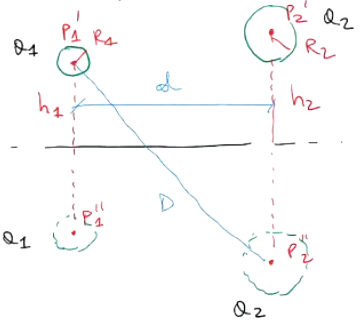
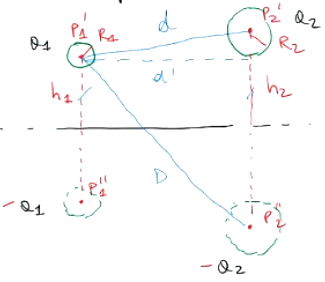
corretta lezione 15 e terminata definitivamente 16

diff --git a/15_capacità_cavi_giratore_dielettrici_dipoli.tex b/15_capacità_cavi_giratore_dielettrici_dipoli.tex
@@ -121,32 +121,59 @@ bifilare in prossimità del suolo.
 Applicando il PSE
 \begin{align*}
 V_1 &= -\frac{\sigma_1 R_1 2\pi}{2\pi\varepsilon_0}\ln R_1 -
-\frac{\sigma_2 R_2 2 \pi}{2 \pi \varepsilon_0}\ln d - 
-\frac{\sigma_1 R_1 2 \pi}{2\pi \varepsilon_0} \ln(2 h_1) -
+\frac{\sigma_2 R_2 2 \pi}{2 \pi \varepsilon_0}\ln d + 
+\frac{\sigma_1 R_1 2 \pi}{2\pi \varepsilon_0} \ln(2 h_1) +
 \frac{\sigma_2 R_2 2 \pi}{2\pi\varepsilon_0} \ln D \\
-V_1 &= -\frac{Q_1}{2\pi\varepsilon_0} \ln(2 h_1 R_1) - 
-\frac{Q_2}{2\pi\varepsilon_0} \ln (dD)\\
-V_2 &= -\frac{Q_1}{2\pi\varepsilon_0} \ln(dD) - 
-\frac{Q_2}{2\pi\varepsilon_0} (2h_2R_2)
+V_1 &= -\frac{Q_1}{2\pi\varepsilon_0} \ln\left(\frac{R_1}{2h_1}\right) - 
+\frac{Q_2}{2\pi\varepsilon_0} \ln \left(\frac{d}{D}\right)\\
+V_2 &= -\frac{Q_1}{2\pi\varepsilon_0} \ln\left(\frac{d}{D}\right) - 
+\frac{Q_2}{2\pi\varepsilon_0} \left(\frac{R_2}{2h_2}\right)
 \end{align*}
 Nel caso di induzione completa si può calcolare la capacità
 $$
-C = \frac{\cancel{Q_1}}{\frac{\cancel{Q_1}}{2\pi\varepsilon_0}\left[-\ln(2h_1R_1)+\ln(dD)+\ln(dD)-\ln(2h_2R_2)\right]} = 
-\frac{2\pi\varepsilon_0}{\ln\left[\frac{(dD)^2}{4h_1h_2R_1R_2}\right]}
+C = \frac{\cancel{Q_1}}{\frac{\cancel{Q_1}}{2\pi\varepsilon_0}\left[-\ln\left(\frac{R_1}{2h_1}\right)+\ln\left(\frac{d}{D}\right)+\ln\left(\frac{d}{D}\right)-\ln\left(\frac{R_2}{2h_2}\right)\right]} = 
+\frac{2\pi\varepsilon_0}{\ln\left[\left(\frac{d}{D}\right)^2\cdot\frac{4h_1h_2}{R_1R_2}\right]}
 $$
-Applicando il teorema di Pitagora possiamo sostituire $D^2 = d^2 + (h_1+h_2)^2$
+Per capire cosa accade all'aumentare di $h_1$ e $h_2$, ossia aumentando
+la distanza dal suolo, va trovata la relazione che lega $D$ alla 
+distanza $d$.
 $$
-C = \frac{2\pi\varepsilon_0}{\ln\left[\frac{d^2}{R_1R_2} 
-\frac{\left[d^2+(h_1+h_2)^2\right]}{4h_1h_2} \right]}
+D^2 = (h_1+h_2)^2 + d^2 - (h_1-h_2)^2 = (h_1+h_2)^2 + d'^2 = 2h_1h_2 + d^2 + 2h_1h_2
+$$ 
 $$
-Se $h_1$ e $h_2$ tendono ad infinito, il coefficiente al 
-denominatore che li contiene tende ad 1
+D^2 = 4h_1h_2+d^2
 $$
-C \to \frac{2\pi\varepsilon_0}{\ln\left(\frac{d^2}{R_1R_2}\right)}
+$$
+C = \frac{2\pi\varepsilon_0}{\ln\left[\frac{d^2}{d^2+4h_1h_2} 
+\frac{4h_1h_2}{R_1R_2} \right]} = \frac{2\pi\varepsilon_0}
+{\ln\left[ \frac{d^2}{\frac{d^2}{4h_1h_2}+1}\cdot\frac{1}{R_1R_2} \right]}
+$$
+Se $4h_1h_2 \gg d^2,\ h_1,h_2 \gg \frac{d}{2} \Leftrightarrow \frac{h_1}{d},\frac{h_2}{d} \gg \frac{1}{2}$ , la capacità diventa
+$$
+C =\frac{2\pi\varepsilon_0}
+{\ln\left[ \frac{d^2}{\cancel{\frac{d^2}{4h_1h_2}}+1}\cdot\frac{1}{R_1R_2} \right]} \simeq \frac{2\pi\varepsilon_0}{\ln\left(\frac{d^2}{R_1R_2}\right)}
 $$
 Soluzione identica a quella trovata nel caso precedente in
 assenza del terreno.
+Per confrontare la formula approssimata in assenza del terreno, rispetto a 
+quella esatta si può fare un esempio:
+$$
+\begin{aligned}
+R_1 &= R_2 = \SI{0.01}{\meter}\\
+h_1 &= h_2 = \SI{10}{\meter} \\
+d &= \SI{1}{\meter}
+\end{aligned} \Rightarrow 
+\begin{aligned}
+C_{\text{esatt.}} &= \SI{6.039}{\pico\farad\per\meter} \\
+C_{\text{appross.}} &= \SI{6.034}{\pico\farad\per\meter}
+\end{aligned} \Rightarrow
+\frac{\Delta C \% }{C} = -0.03 \%
+$$
+La formula approssimata sottovaluta la capacità per unità di lunghezza
+dello 0.3 \textpertenthousand
 
+(per mille)
+\newpage
 \subparagraph{Realizzazione di un induttore con un condensatore}
 Sia dato un doppio bipolo con parametro $G$ conduttanza di
 \textit{girazione}, le sue equazioni caratteristiche sono:
@@ -178,7 +205,7 @@ $$
 \includegraphics[width=0.3\linewidth]{giratore_con_condensatore}
 \caption{Giratore con condensatore}
 \end{figure}
-
+\newpage
 \section{Materiali dielettrici}
 E il loro modello elettromagnetico
 
@@ -301,7 +328,7 @@ $$
 dove $\vec{P}(Q,t)$ è il vettore (intensità di) di polarizzazione elettrica ed ha il significato 
 di una densità di momento di dipolo media
 $$
-<\vec{p}> = \frac{N<\vec{p}_a>}{\text{Vol}(\Delta\Omega)}\cdot \text{Vol}(\Delta\Omega)
+<\vec{p}> = \frac{\sum_i N\vec{p}_i}{\text{Vol}(\Delta\Omega)}\cdot \text{Vol}(\Delta\Omega)
 $$
 Per descrivere le cariche legate all'interno del volumetto può essere comodo immaginare la materia
 costituita da tanti dipolini elementari.

diff --git a/appunti.tex b/appunti.tex
@@ -46,7 +46,7 @@
   /Subject  ()
   /Keywords ()
 }
-\includeonly{14_capacità_parziali,15_capacità_cavi_giratore_dielettrici_dipoli,16}
+%\includeonly{14_capacità_parziali,15_capacità_cavi_giratore_dielettrici_dipoli,16_densita_polarizzazione_maxwell_dielettrici}
 \begin{document}
 \maketitle
 Ti piacciono i miei appunti? Saranno sempre liberi e gratuiti ma puoi sostenermi con una donazione cliccando \href{https://www.paypal.com/donate?hosted_button_id=7KELP768NJSYW}{QUI}
@@ -70,7 +70,7 @@ Puoi accedere ai codici sorgente seguendo questo \href{https://github.com/FlashN
 \include{13_elettrostatica_conduttori}
 \include{14_capacità_parziali}
 \include{15_capacità_cavi_giratore_dielettrici_dipoli}
-\include{16}
+\include{16_densita_polarizzazione_maxwell_dielettrici}
 \include{17}
 \include{18}
 Work in progress...

diff --git a/16_densita_polarizzazione_maxwell_dielettrici.tex b/16_densita_polarizzazione_maxwell_dielettrici.tex
@@ -1,10 +1,3 @@
-\textbf{Inizia a 11:40
-Correggi immagine da lezione 16 a lezione 15
-Correggi segni equazioni V1 e V2 cariche immagine
-Fine correzione alle 25:27}
-
-Inizio lezione nuova alle 32:30
-Correggi sommatoria N dipolini
 
 È fondamentale rappresentare i dipoli sulle interfacce
 dei volumetti, una delle due cariche potrebbe trovarsi
